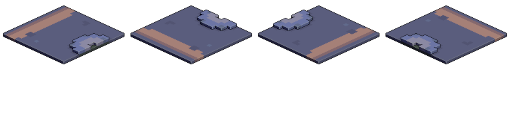
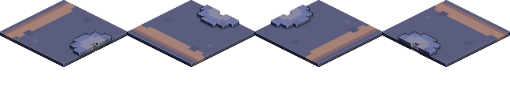
fix: finished fixing floors

Changed region(s): [[0.0, 0.0, 1.0, 0.6571], [0.8824, 0.1714, 0.9118, 0.2286], [0.0882, 0.1714, 0.1176, 0.2286]]

diff --git a/include/init_texture.h b/include/init_texture.h
@@ -69,6 +69,7 @@ enum Tiles {
     ROAD_CHUNK6,
     SIDE_WALK_CHUNK,
     SIDE_WALK_CHUNK1,
+    SIDE_WALK_CHUNK1B,
     SIDE_WALK_CHUNK2,
     SIDE_WALK_CHUNK3,
     SIDE_WALK_CHUNK4,
@@ -517,6 +518,12 @@ static const init_texture_t TILES_TEXTURE_INIT[] = {
         .texture_path = "./assets/blocks/floors/Sidewalk_Chunk1.png",
         .texture_name = SIDE_WALK_CHUNK1,
         .rect = {0, 0, 128, 105},
+        .frame_nb = 1
+    },
+    {
+        .texture_path = "./assets/blocks/floors/Sidewalk_Chunk1.png",
+        .texture_name = SIDE_WALK_CHUNK1B,
+        .rect = {256, 0, 128, 105},
         .frame_nb = 1
     },
     {

diff --git a/include/init_world.h b/include/init_world.h
@@ -62,6 +62,14 @@ static const init_world_t FLOOR_BLOCK_INIT[] =
         .texture_name = ROAD_CHUNKE
     },
     {
+        .c = 'd',
+        .texture_name = SIDE_WALK_CHUNK1
+    },
+    {
+        .c = 'c',
+        .texture_name = SIDE_WALK_CHUNK1B
+    },
+    {
         .c = -1,
         .texture_name = 0
     }
